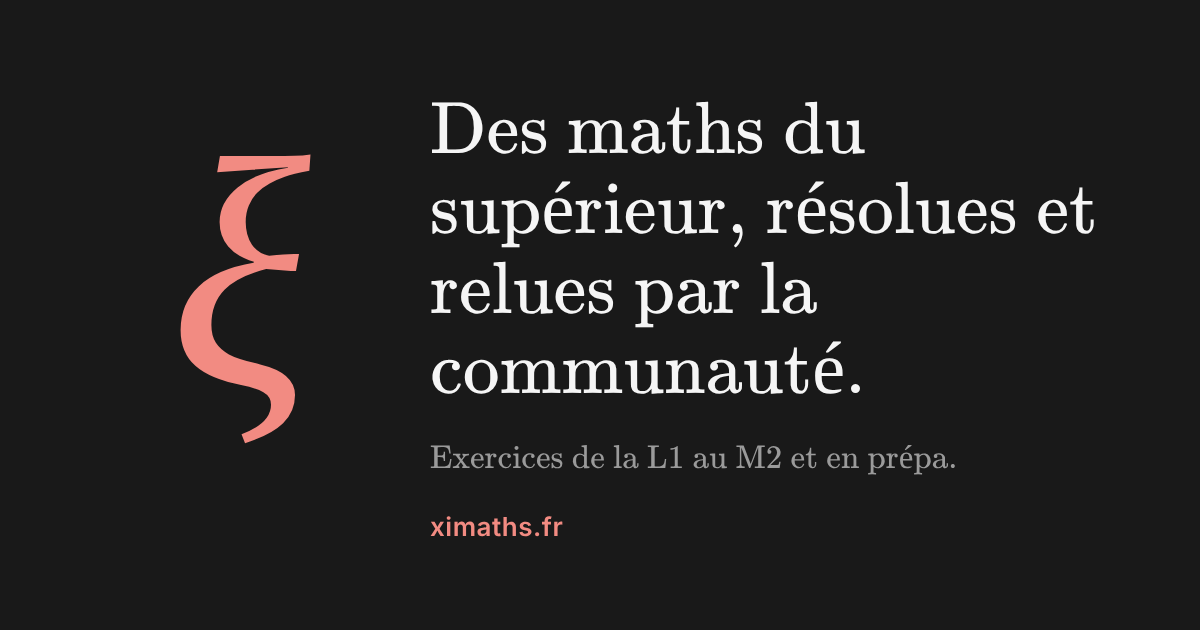
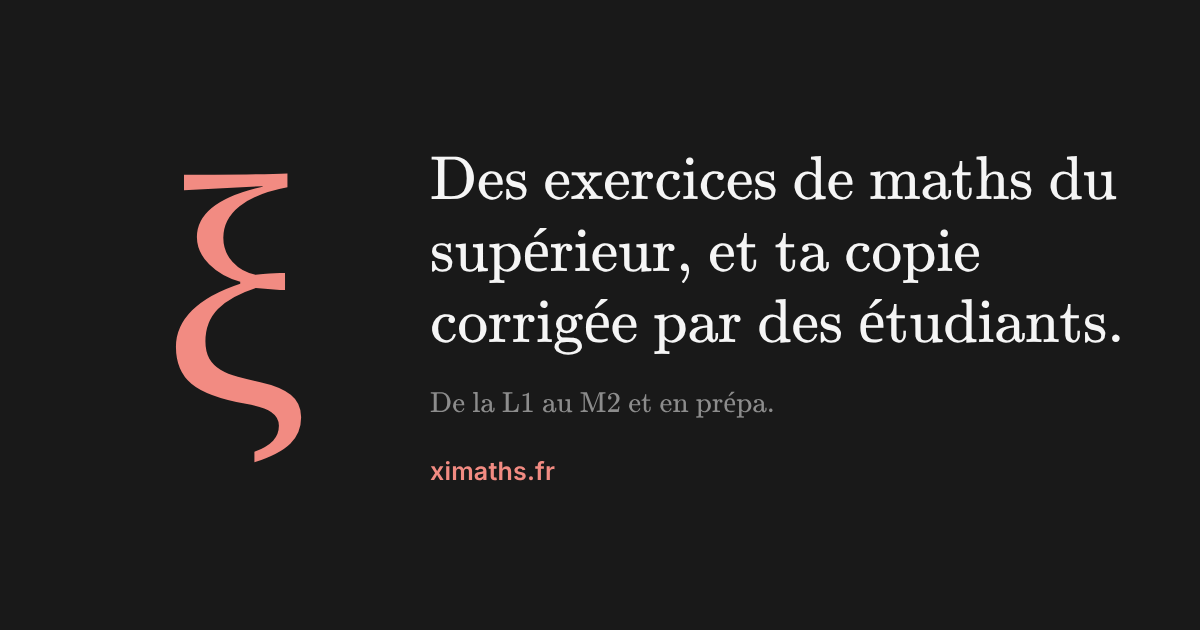
Image de partage au nouveau slogan
L'aperçu d'un lien partagé disait encore « résolues et relues par la
communauté ».

Claude-Session: https://claude.ai/code/session_01KwqUeoLeTbo95iDTaw8Fro

diff --git a/frontend/src/lib/site.ts b/frontend/src/lib/site.ts
@@ -14,7 +14,7 @@ export const SHARE_IMAGE = {
   url: "/opengraph-image.png",
   width: 1200,
   height: 630,
-  alt: "XiMaths : des maths du supérieur, résolues et relues par la communauté.",
+  alt: "XiMaths : des exercices de maths du supérieur, et ta copie corrigée par des étudiants.",
 };
 
 /** Comptes officiels de XiMaths : déclarés aux moteurs (sameAs) et liés en pied de page.
